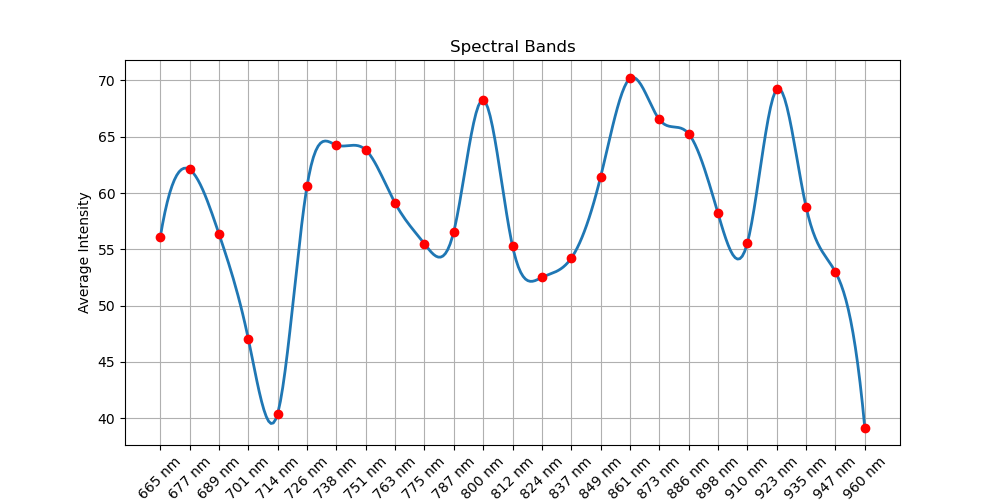
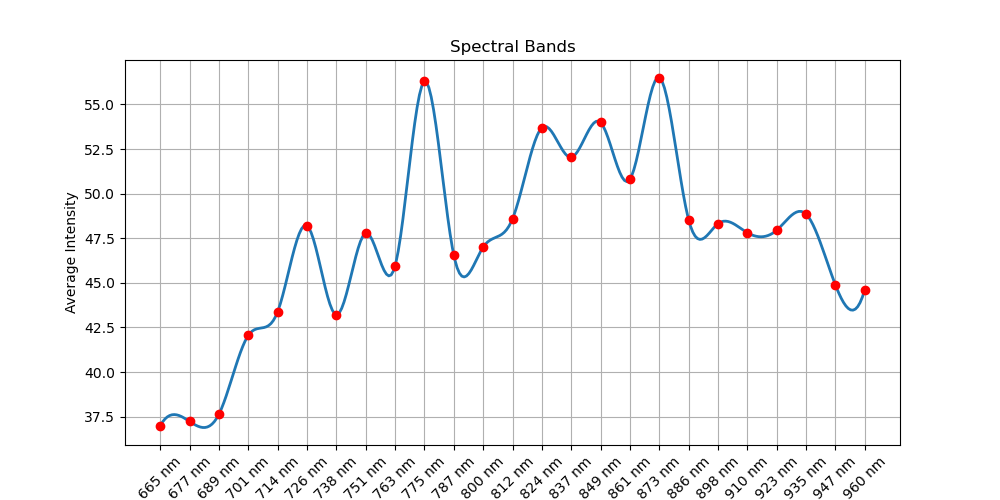
updates

Changed region(s): [[0.062, 0.15, 0.899, 0.87], [0.558, 0.45, 0.589, 0.54], [0.093, 0.15, 0.124, 0.24]]

diff --git a/scripts/pos_and_neg.py b/scripts/pos_and_neg.py
@@ -1,0 +1,87 @@
+import os
+import numpy as np
+import matplotlib.pyplot as plt
+from scipy.interpolate import make_interp_spline
+from utils import demosaic_ximea_5x5, hypercube_dict_to_array
+from bbox_image_analysis import ImageBoxSelector
+
+
+def collect_boxes(label):
+    all_band_intensities = []
+    print(f"\n🟩 Starting {label.upper()} box selection...\n")
+    for i, image_name in enumerate(image_names):
+        print(f"[{i+1}/{len(image_names)}] Processing image: {image_name}")
+        image_path = os.path.join(folder, image_name)
+
+        selector = ImageBoxSelector(image_path)
+        selector.display_image()
+        box = selector.get_box()
+
+        if not box or box[0] == box[2] or box[1] == box[3]:
+            print("⚠ No box selected. Skipping.\n")
+            continue
+
+        print(f"✅ {label.capitalize()} box selected: {box}\n")
+
+        hypercube_dict = demosaic_ximea_5x5(image_path)
+        hypercube = hypercube_dict_to_array(hypercube_dict)
+
+        x1, y1, x2, y2 = box
+        x1, y1, x2, y2 = x1 // pattern_size, y1 // pattern_size, x2 // pattern_size, y2 // pattern_size
+        selected_box = hypercube[:, y1:y2, x1:x2]
+
+        band_avg = np.mean(selected_box, axis=(1, 2))
+        all_band_intensities.append(band_avg)
+
+    return np.array(all_band_intensities)
+
+
+if __name__ == "__main__":
+
+    pattern_size = 5
+    spectral_bands = 25
+    spectral_range = np.linspace(665, 960, spectral_bands)
+
+    folder = "fb_images"
+    image_names = os.listdir(folder)
+
+    positives = []
+    negatives = []
+
+    # Step 1: collect positives
+    positives = collect_boxes("positive")
+
+    # Step 2: collect negatives
+    negatives = collect_boxes("negative")
+
+    # Save results for future plotting
+    np.savez("spectral_profiles.npz",
+            positives=positives,
+            negatives=negatives,
+            spectral_range=spectral_range)
+    print("✅ Saved spectral data to 'spectral_profiles.npz'")
+
+    # Step 3: plot both
+    x = np.arange(spectral_bands)
+    x_smooth = np.linspace(x.min(), x.max(), 300)
+
+    pos_avg = np.mean(positives, axis=0)
+    neg_avg = np.mean(negatives, axis=0)
+
+    pos_smooth = make_interp_spline(x, pos_avg)(x_smooth)
+    neg_smooth = make_interp_spline(x, neg_avg)(x_smooth)
+
+    plt.figure(figsize=(10, 5), dpi=300)
+    plt.plot(x_smooth, pos_smooth, label="Positive", color="red", linewidth=2)
+    plt.plot(x_smooth, neg_smooth, label="Negative", color="green", linewidth=2)
+    plt.scatter(x, pos_avg, color="red")
+    plt.scatter(x, neg_avg, color="green")
+    plt.xticks(x, [f"{int(w)} nm" for w in spectral_range], rotation=45)
+    plt.xlabel("Wavelength")
+    plt.ylabel("Average Intensity")
+    plt.title("Spectral Signature: Positive vs Negative")
+    plt.grid()
+    plt.legend()
+    plt.ylim(0, 255)
+    plt.tight_layout()
+    plt.show()

diff --git a/scripts/pos_and_neg_replot.py b/scripts/pos_and_neg_replot.py
@@ -1,0 +1,34 @@
+import numpy as np
+import matplotlib.pyplot as plt
+from scipy.interpolate import make_interp_spline
+
+# Load saved data
+data = np.load("spectral_profiles.npz")
+positives = data["positives"]
+negatives = data["negatives"]
+spectral_range = data["spectral_range"]
+
+x = np.arange(len(spectral_range))
+x_smooth = np.linspace(x.min(), x.max(), 300)
+
+pos_avg = np.mean(positives, axis=0)
+neg_avg = np.mean(negatives, axis=0)
+
+pos_smooth = make_interp_spline(x, pos_avg)(x_smooth)
+neg_smooth = make_interp_spline(x, neg_avg)(x_smooth)
+
+# Plot
+plt.figure(figsize=(10, 5), dpi=300)
+plt.plot(x_smooth, pos_smooth, label="Positive", color="red", linewidth=2)
+plt.plot(x_smooth, neg_smooth, label="Negative", color="green", linewidth=2)
+plt.scatter(x, pos_avg, color="red")
+plt.scatter(x, neg_avg, color="green")
+plt.xticks(x, [f"{int(w)} nm" for w in spectral_range], rotation=45)
+plt.xlabel("Wavelength")
+plt.ylabel("Average Intensity")
+plt.title("Spectral Signature: Positive vs Negative")
+plt.grid()
+plt.legend()
+# plt.ylim(0, 255)
+plt.tight_layout()
+plt.show()

diff --git a/scripts/bbox_image_analysis.py b/scripts/bbox_image_analysis.py
@@ -73,7 +73,9 @@ def plot_spectral_intensities(band_intensities, spectral_range, image_name=""):
         image_name = "Spectral Bands"
     else:
         image_name = f"Spectral Bands ({image_name})"
-    plt.figure(figsize=(10, 5))
+    
+    # Create a high quality figure
+    plt.figure(figsize=(10, 5), dpi=300)
     plt.plot(x_smooth, band_intensities_smooth, linewidth=2)
     plt.plot(x, band_intensities, 'o', color='red')
     plt.xticks(x, [f"{int(wavelength)} nm" for wavelength in spectral_range], rotation=45)
@@ -81,6 +83,10 @@ def plot_spectral_intensities(band_intensities, spectral_range, image_name=""):
     plt.ylabel("Average Intensity")
     plt.title("Spectral Bands")
     plt.grid()
+    
+    # Set y-axis limits from 0 to 255 intensity values
+    plt.ylim(0, 255)
+    
     plt.show()
 
 if __name__ == "__main__":
